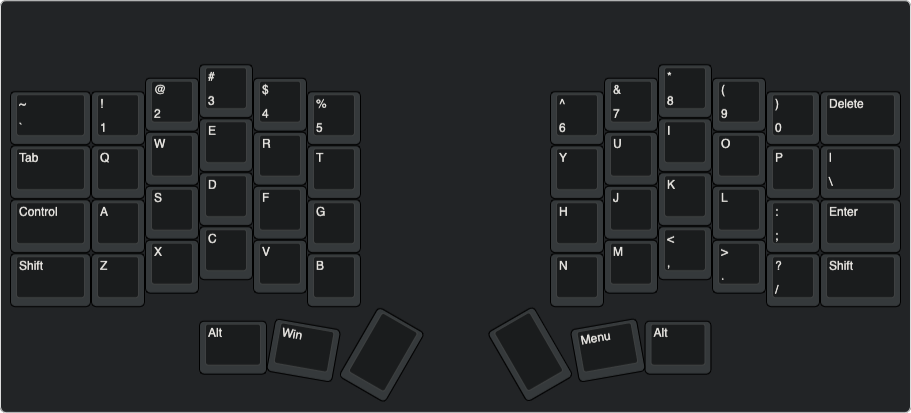
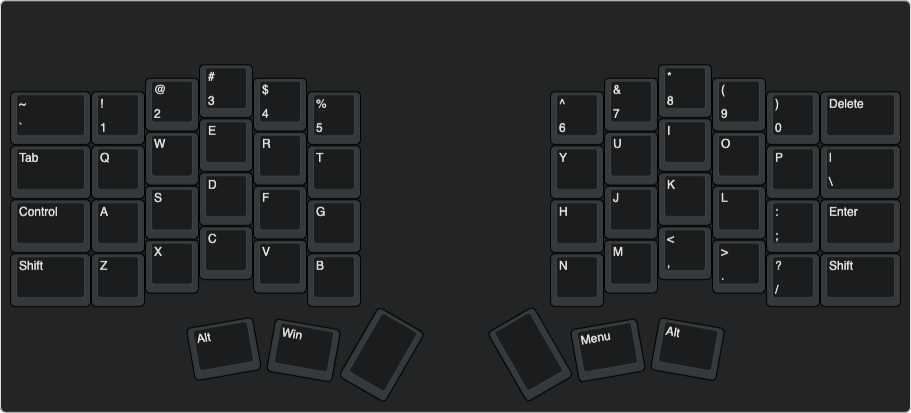
updated keyboard layout image, added layout json

Changed region(s): [[0.2151, 0.7554, 0.3074, 0.9298], [0.7069, 0.7554, 0.7991, 0.9007]]

diff --git a/README.md b/README.md
@@ -3,7 +3,6 @@
 The μ10e, pronounced *Mutiny*, is another take on a DIY ergonomic ortholinear with column stagger split keyboard inspired by such boards as the ErgoDox, Crkbd, Splitreus62, and even the Planck and Boardwalk.
 
 ### Sample Layout
-[Keyboard Layout Editor](http://www.keyboard-layout-editor.com/##@@_y:1&x:12;&=*%0A8;&@_y:-0.75&x:2.5;&=/@%0A2&_x:1;&=$%0A4&_x:5.5;&=/&%0A7&_x:1;&=(%0A9;&@_y:-0.75&w:1.5;&=~%0A%60&=!%0A1&_x:3;&=%25%0A5&_x:3.5;&=%5E%0A6&_x:3;&=)%0A0&_w:1.5;&=Delete;&@_y:-0.5&x:12;&=I;&@_y:-0.75&x:2.5;&=W&_x:1;&=R&_x:5.5;&=U&_x:1;&=O;&@_y:-0.75&w:1.5;&=Tab&=Q&_x:3;&=T&_x:3.5;&=Y&_x:3;&=P&_w:1.5;&=%7C%0A%5C;&@_y:-0.5&x:12;&=K;&@_y:-0.75&x:2.5;&=S&_x:1;&=F&_x:5.5;&=J&_x:1;&=L;&@_y:-0.75&w:1.5;&=Control&=A&_x:3;&=G&_x:3.5;&=H&_x:3;&=/:%0A/;&_w:1.5;&=Enter;&@_y:-0.5&x:12;&=%3C%0A,;&@_y:-0.75&x:2.5;&=X&_x:1;&=V&_x:5.5;&=M&_x:1;&=%3E%0A.;&@_y:-0.75&w:1.5;&=Shift&=Z&_x:3;&=B&_x:3.5;&=N&_x:3;&=?%0A//&_w:1.5;&=Shift;&@_y:0.25&x:11.75&w:1.25;&=Alt;&@_ry:0.25&y:0.75&x:3.5;&=#%0A3;&@_x:3.5;&=E;&@_x:3.5;&=D;&@_x:3.5;&=C;&@_rx:6.5&ry:7.25&y:-1.5&x:-3&w:1.25;&=Alt;&@_r:10&rx:8.25&ry:4&y:2.25&x:-3&w:1.25;&=Win;&@_r:30&y:-1.25&x:-0.5&a:7&h:1.5;&=;&@_r:-30&y:-1&x:-0.5&h:1.5;&=;&@_r:-10&y:-0.75&x:1.75&a:4&w:1.25;&=Menu)
 ![u10eLayout](./u10e_layout.png)
 
 ### Goals
